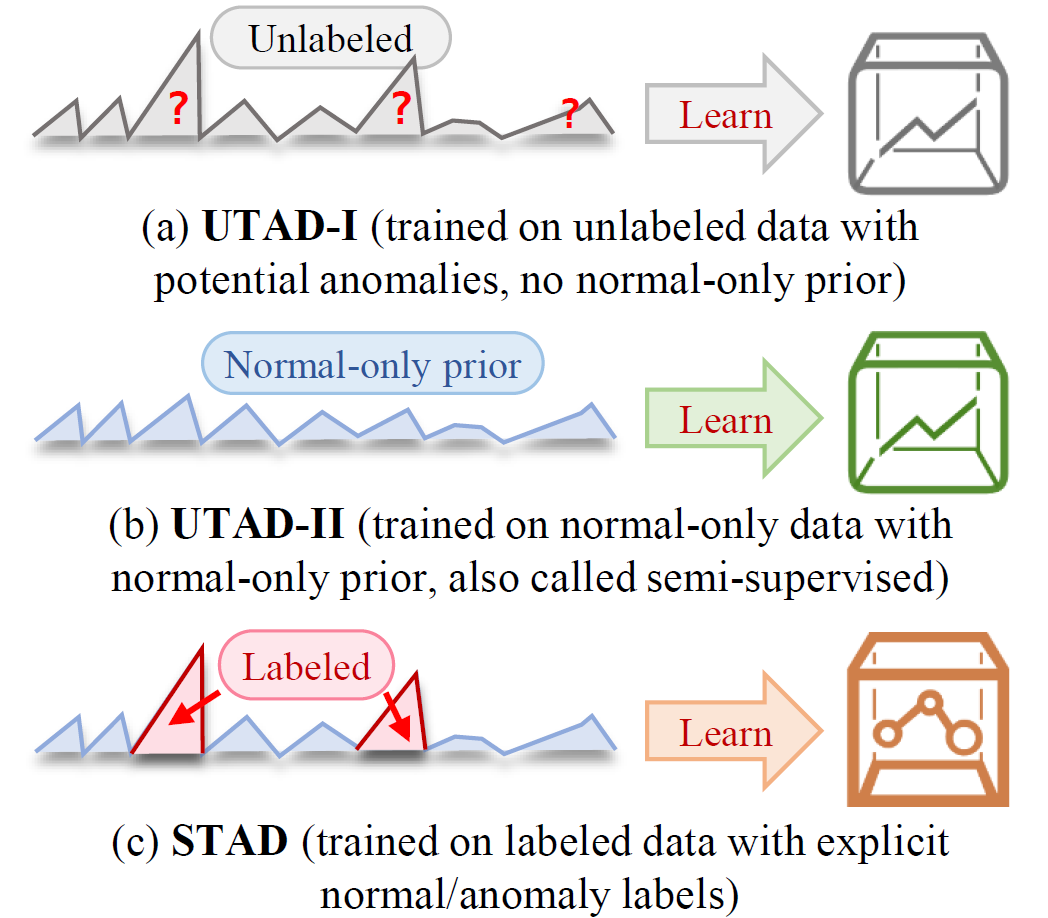
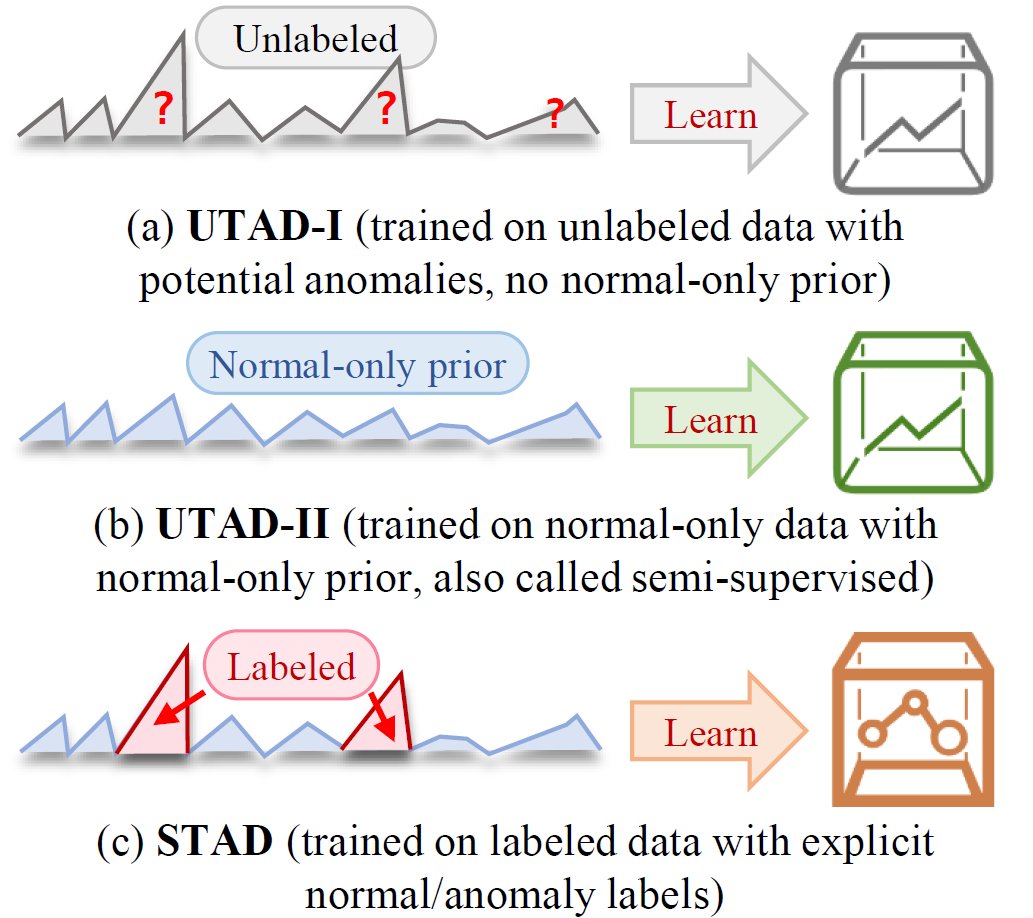
upd png;

diff --git a/README.md b/README.md
@@ -4,10 +4,10 @@
 This repository contains the implementation of **STAND** 🚀, a simple supervised time series anomaly detection baseline, as described in our paper. STAND demonstrates that with proper supervision, even simple models can outperform complex unsupervised approaches in time series anomaly detection tasks.
 
 
-| |
-| :---: |
-| ![Classification of time series anomaly detection methods](./docs/static/images/fw.png) |
-| *Fig. 1: Classification of time series anomaly detection methods.* |
+<div style="text-align: center;">
+  <img src="./docs/static/images/fw.png" alt="Classification of time series anomaly detection methods" />
+  <p style="margin-top: 8px; color: #666; font-style: italic;">Fig. 1: Classification of time series anomaly detection methods.</p>
+</div>
 
 ## 💡 Key Findings
 
